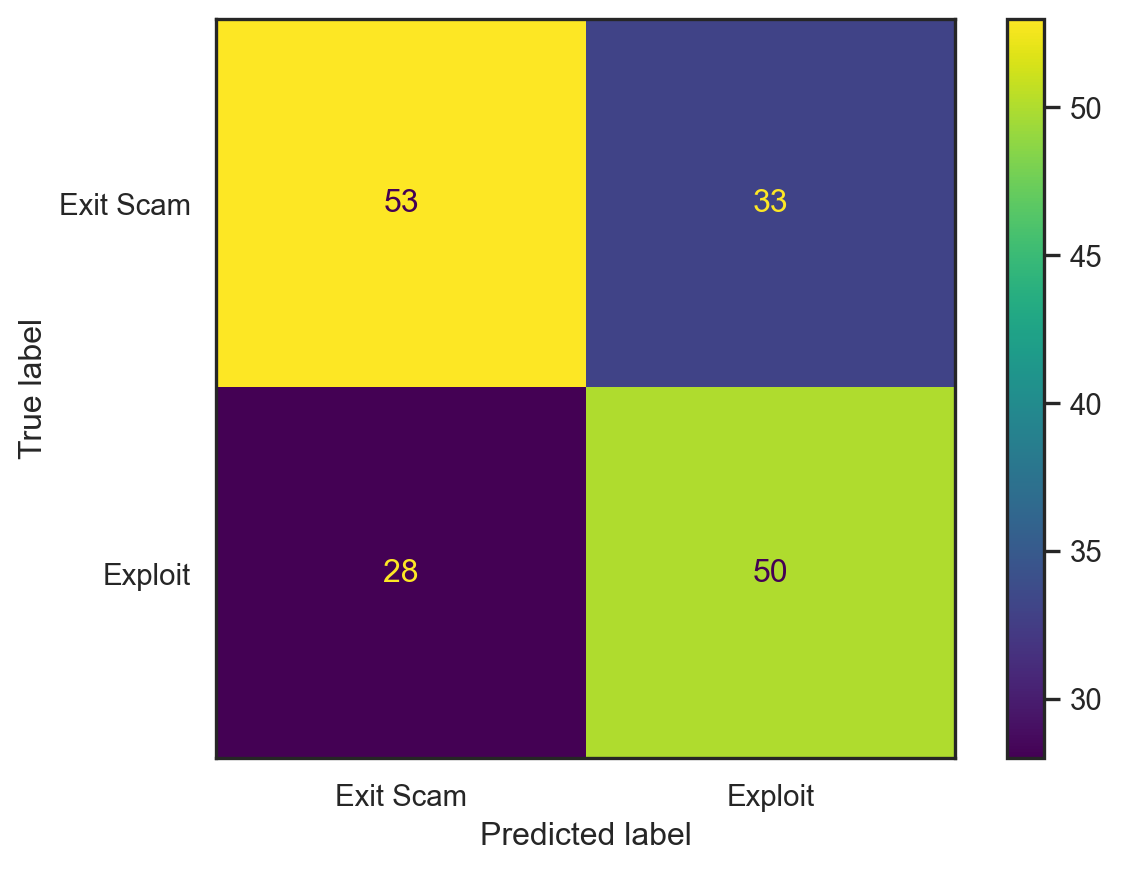
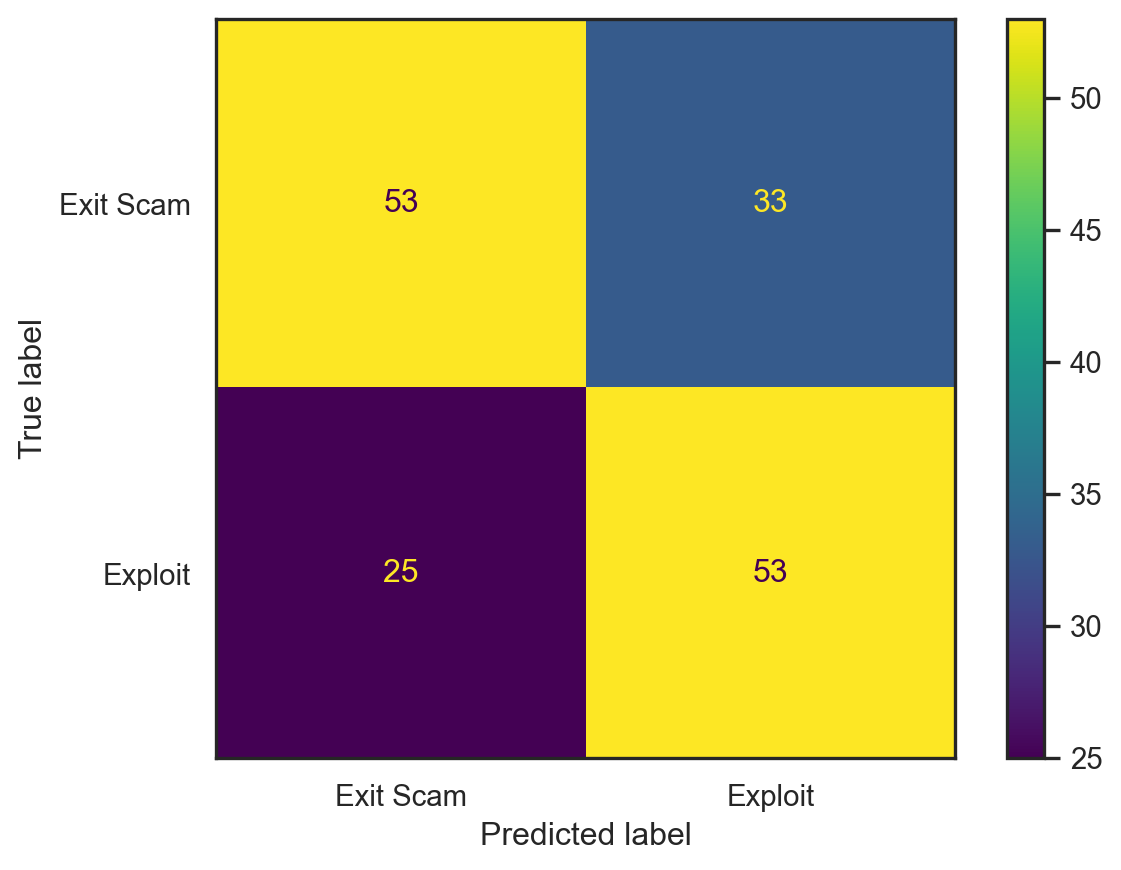
GITHUB-UPLOAD:DATE-2022-10-24-TIME-15-20-09

diff --git a/501-project-website/pages/decision_tree_record_data.html b/501-project-website/pages/decision_tree_record_data.html
@@ -115,13 +115,16 @@ code span.wa { color: #60a0b0; font-weight: bold; font-style: italic; } /* Warni
   <ul class="collapse">
   <li><a href="#methods" id="toc-methods" class="nav-link" data-scroll-target="#methods">Methods</a></li>
   <li><a href="#results" id="toc-results" class="nav-link" data-scroll-target="#results">Results</a></li>
-  <li><a href="#load-the-cleaned-text-data" id="toc-load-the-cleaned-text-data" class="nav-link" data-scroll-target="#load-the-cleaned-text-data">Load the cleaned text data</a></li>
+  <li><a href="#loading-libraries-and-the-cleaned-record-data-rekt-database" id="toc-loading-libraries-and-the-cleaned-record-data-rekt-database" class="nav-link" data-scroll-target="#loading-libraries-and-the-cleaned-record-data-rekt-database">Loading Libraries and the Cleaned Record Data (REKT Database)</a></li>
   <li><a href="#exploring-the-pre-processed-data-using-correlation-heat-maps-and-pairplots" id="toc-exploring-the-pre-processed-data-using-correlation-heat-maps-and-pairplots" class="nav-link" data-scroll-target="#exploring-the-pre-processed-data-using-correlation-heat-maps-and-pairplots">Exploring the Pre-processed Data using Correlation Heat Maps and Pairplots</a></li>
   <li><a href="#split-the-dataset-into-training-and-testing-sets" id="toc-split-the-dataset-into-training-and-testing-sets" class="nav-link" data-scroll-target="#split-the-dataset-into-training-and-testing-sets">Split the dataset into training and testing sets</a></li>
   <li><a href="#baseline-random-classifier" id="toc-baseline-random-classifier" class="nav-link" data-scroll-target="#baseline-random-classifier">Baseline Random Classifier</a></li>
   <li><a href="#binary-decision-tree-classifier" id="toc-binary-decision-tree-classifier" class="nav-link" data-scroll-target="#binary-decision-tree-classifier">Binary Decision Tree Classifier</a>
   <ul class="collapse">
+  <li><a href="#evaluating-initial-decision-tree-performance" id="toc-evaluating-initial-decision-tree-performance" class="nav-link" data-scroll-target="#evaluating-initial-decision-tree-performance">Evaluating Initial Decision Tree Performance</a></li>
+  <li><a href="#visualizing-the-decision-tree" id="toc-visualizing-the-decision-tree" class="nav-link" data-scroll-target="#visualizing-the-decision-tree">Visualizing the Decision Tree</a></li>
   <li><a href="#hyper-parameter-tuning-using-gridsearchcv-evaluating-best-decision-tree-classifier-for-test-data-performance" id="toc-hyper-parameter-tuning-using-gridsearchcv-evaluating-best-decision-tree-classifier-for-test-data-performance" class="nav-link" data-scroll-target="#hyper-parameter-tuning-using-gridsearchcv-evaluating-best-decision-tree-classifier-for-test-data-performance">Hyper-parameter tuning using GridSearchCV: Evaluating Best Decision Tree Classifier for Test Data Performance</a></li>
+  <li><a href="#visualizing-the-hyperparameter-tuned-decision-tree" id="toc-visualizing-the-hyperparameter-tuned-decision-tree" class="nav-link" data-scroll-target="#visualizing-the-hyperparameter-tuned-decision-tree">Visualizing the Hyperparameter Tuned Decision Tree</a></li>
   </ul></li>
   </ul></li>
   </ul>
@@ -143,8 +146,8 @@ code span.wa { color: #60a0b0; font-weight: bold; font-style: italic; } /* Warni
 <p>The cleaned REKT Database has 816 observations after pre-processing. If we recall, the original REKT Database had 3076 observations; however, to treat the heavy class imbalance present in the original data, about 1861 honeypots, 383 rugpulls, and 29 “other” scams were filtered out. Moreover, no key information, in terms of funds lost or source of the attack, was offered about these attacks in the observations that were eliminated. We are left with all those rows where funds lost != 0 and where all projects have some information to offer regarding the extent of the scam, helpful in predicting the scam type.</p>
 <p>Recalling from the Naive Bayes tab, the initial Naive Bayes Classifier that was tested on the same record data outputted an accuracy of 60% on the test data and the discretized Naive Bayes Classifier outputted an accuracy of 72%. Our expectation is that the Decision Tree should perform better than the Naive Bayes Classifiers because the Decision Tree is a more complex and stronger algorithm than Naive Bayes. Indeed, we are proved correct, as the initial Decision Tree outputted a 100% on all metrics on the training data and a 62% accuracy on the test data. This indicated major overfitting on the training data and, hence, hyperparameter tuning was employed for the Decision Tree to generalize better on unseen data. After performing hyperparameter tuning, the accuracy on the test data was significantly higher at 76%, which means that the Decision Tree did outperform the Naive Bayes Classifier trained on discretized data. Therefore, hyperparameter tuning is an important step in the machine learning process and it opens insights on why and how a particular model performs when its parameters are dialed back and forth.</p>
 </section>
-<section id="load-the-cleaned-text-data" class="level3">
-<h3 class="anchored" data-anchor-id="load-the-cleaned-text-data">Load the cleaned text data</h3>
+<section id="loading-libraries-and-the-cleaned-record-data-rekt-database" class="level3">
+<h3 class="anchored" data-anchor-id="loading-libraries-and-the-cleaned-record-data-rekt-database">Loading Libraries and the Cleaned Record Data (REKT Database)</h3>
 <div class="cell" data-execution_count="1">
 <details>
 <summary>Code</summary>
@@ -162,9 +165,6 @@ code span.wa { color: #60a0b0; font-weight: bold; font-style: italic; } /* Warni
 <span id="cb1-12"><a href="#cb1-12" aria-hidden="true" tabindex="-1"></a>warnings.filterwarnings(<span class="st">"ignore"</span>)</span></code><button title="Copy to Clipboard" class="code-copy-button"><i class="bi"></i></button></pre></div>
 </details>
 </div>
-<section id="import" class="level4">
-<h4 class="anchored" data-anchor-id="import">4.1.1: Import</h4>
-<p>The following code will import the data file into a pandas data-frame</p>
 <div class="cell" data-execution_count="2">
 <details>
 <summary>Code</summary>
@@ -178,7 +178,7 @@ code span.wa { color: #60a0b0; font-weight: bold; font-style: italic; } /* Warni
 <div class="sourceCode cell-code" id="cb3"><pre class="sourceCode python code-with-copy"><code class="sourceCode python"><span id="cb3-1"><a href="#cb3-1" aria-hidden="true" tabindex="-1"></a><span class="co"># Visualize first 5 rows</span></span>
 <span id="cb3-2"><a href="#cb3-2" aria-hidden="true" tabindex="-1"></a>df.head(<span class="dv">5</span>)</span></code><button title="Copy to Clipboard" class="code-copy-button"><i class="bi"></i></button></pre></div>
 </details>
-<div class="cell-output cell-output-display" data-execution_count="23">
+<div class="cell-output cell-output-display" data-execution_count="43">
 
 <div>
 
@@ -262,7 +262,6 @@ code span.wa { color: #60a0b0; font-weight: bold; font-style: italic; } /* Warni
 </div>
 </div>
 </section>
-</section>
 <section id="exploring-the-pre-processed-data-using-correlation-heat-maps-and-pairplots" class="level3">
 <h3 class="anchored" data-anchor-id="exploring-the-pre-processed-data-using-correlation-heat-maps-and-pairplots">Exploring the Pre-processed Data using Correlation Heat Maps and Pairplots</h3>
 <p>Scam type is the dependent variable, which contains 2 labels, Exit Scam (381 observations) and Exploit (435 observations). The independent variables are a mix of continuous, discrete, and text data. The independent continuous variables are log_funds_lost and log_funds_returned. The independent discrete variables are 3 datetime features, including month_of_attack, day_of_week_of_attack, and day_of_year_of_attack. The only string independent variable is scamNetworks, which denotes the token attached to the project that got scammed.</p>
@@ -294,8 +293,8 @@ code span.wa { color: #60a0b0; font-weight: bold; font-style: italic; } /* Warni
 <div class="sourceCode cell-code" id="cb8"><pre class="sourceCode python code-with-copy"><code class="sourceCode python"><span id="cb8-1"><a href="#cb8-1" aria-hidden="true" tabindex="-1"></a><span class="co"># GENERATING A SEABORN PAIRPLOT </span></span>
 <span id="cb8-2"><a href="#cb8-2" aria-hidden="true" tabindex="-1"></a>sns.pairplot(df,hue<span class="op">=</span><span class="st">"scam_type_grouped"</span>, diag_kind<span class="op">=</span><span class="st">'kde'</span>)</span></code><button title="Copy to Clipboard" class="code-copy-button"><i class="bi"></i></button></pre></div>
 </details>
-<div class="cell-output cell-output-display" data-execution_count="26">
-<pre><code>&lt;seaborn.axisgrid.PairGrid at 0x13ccb0fa0&gt;</code></pre>
+<div class="cell-output cell-output-display" data-execution_count="46">
+<pre><code>&lt;seaborn.axisgrid.PairGrid at 0x13863b130&gt;</code></pre>
 </div>
 <div class="cell-output cell-output-display">
 <p><img src="decision_tree_record_data_files/figure-html/cell-7-output-2.png" width="1343" height="1178"></p>
@@ -411,10 +410,10 @@ Unique labels and respective counts after one-hot encoding:
 
 
 -----RANDOM CLASSIFIER-----
-count of prediction: dict_values([421, 395])
-probability of prediction: [0.51593137 0.48406863]
-accuracy 0.5147058823529411
-precision, recall, fscore, support (array([0.48101266, 0.54631829]), array([0.49868766, 0.52873563]), array([0.48969072, 0.53738318]), array([381, 435]))</code></pre>
+count of prediction: dict_values([416, 400])
+probability of prediction: [0.50980392 0.49019608]
+accuracy 0.49142156862745096
+precision, recall, fscore, support (array([0.4575    , 0.52403846]), array([0.48031496, 0.50114943]), array([0.46862996, 0.51233843]), array([381, 435]))</code></pre>
 </div>
 </div>
 <p>The baseline classifier outputs an overall accuracy of 50% and an f-1 score of 0.0.47630923 for Exit Scam labels and 0.0.4939759 for Exploit labels respectively. The Decision Tree Classifier should perform better than this, let’s find out…</p>
@@ -438,8 +437,6 @@ precision, recall, fscore, support (array([0.48101266, 0.54631829]), array([0.49
 <span id="cb19-4"><a href="#cb19-4" aria-hidden="true" tabindex="-1"></a>model <span class="op">=</span> model.fit(x_train, y_train)</span></code><button title="Copy to Clipboard" class="code-copy-button"><i class="bi"></i></button></pre></div>
 </details>
 </div>
-<p>#### 4.1.5 Check the results</p>
-<p>Evaluate the performance of the decision tree model by using the test data.</p>
 <div class="cell" data-execution_count="15">
 <details>
 <summary>Code</summary>
@@ -469,6 +466,8 @@ precision, recall, fscore, support (array([0.48101266, 0.54631829]), array([0.49
 <span id="cb21-13"><a href="#cb21-13" aria-hidden="true" tabindex="-1"></a>    plt.show()</span></code><button title="Copy to Clipboard" class="code-copy-button"><i class="bi"></i></button></pre></div>
 </details>
 </div>
+<section id="evaluating-initial-decision-tree-performance" class="level3">
+<h3 class="anchored" data-anchor-id="evaluating-initial-decision-tree-performance">Evaluating Initial Decision Tree Performance</h3>
 <div class="cell" data-execution_count="17">
 <details>
 <summary>Code</summary>
@@ -493,20 +492,22 @@ POSITIVE PRECISION (Y=1): 1.0
 </div>
 <div class="cell-output cell-output-stdout">
 <pre><code>------TEST------
-ACCURACY: 0.6280487804878049
+ACCURACY: 0.6463414634146342
 NEGATIVE RECALL (Y=0): 0.6162790697674418
-NEGATIVE PRECISION (Y=0): 0.654320987654321
-POSITIVE RECALL (Y=1): 0.6410256410256411
-POSITIVE PRECISION (Y=1): 0.6024096385542169
+NEGATIVE PRECISION (Y=0): 0.6794871794871795
+POSITIVE RECALL (Y=1): 0.6794871794871795
+POSITIVE PRECISION (Y=1): 0.6162790697674418
 [[53 33]
- [28 50]]</code></pre>
+ [25 53]]</code></pre>
 </div>
 <div class="cell-output cell-output-display">
 <p><img src="decision_tree_record_data_files/figure-html/cell-18-output-4.png" width="561" height="435"></p>
 </div>
 </div>
 <p>The initial Decision Tree outputted a 100% on all metrics on the training data and a 62% accuracy on the test data. This is a case of major overfitting on the training data! The Decision Tree below outputs a highly complex tree of several child nodes to learn the training data as best as possible. However, this led to it not generalizing well on unseen data, which is why we see a significantly lower accuracy of 62% on the test set. Therefore, we shall employ hyperparameter tuning for the Decision Tree to generalize better on unseen data.</p>
-<p>### Visualizing the Decision Tree</p>
+</section>
+<section id="visualizing-the-decision-tree" class="level3">
+<h3 class="anchored" data-anchor-id="visualizing-the-decision-tree">Visualizing the Decision Tree</h3>
 <div class="cell" data-execution_count="18">
 <details>
 <summary>Code</summary>
@@ -524,6 +525,7 @@ POSITIVE PRECISION (Y=1): 0.6024096385542169
 <p><img src="decision_tree_record_data_files/figure-html/cell-19-output-1.png" width="1507" height="1498"></p>
 </div>
 </div>
+</section>
 <section id="hyper-parameter-tuning-using-gridsearchcv-evaluating-best-decision-tree-classifier-for-test-data-performance" class="level3">
 <h3 class="anchored" data-anchor-id="hyper-parameter-tuning-using-gridsearchcv-evaluating-best-decision-tree-classifier-for-test-data-performance">Hyper-parameter tuning using GridSearchCV: Evaluating Best Decision Tree Classifier for Test Data Performance</h3>
 <p>The “max_depth” hyper-parameter lets us control the number of layers in our tree. The leaf nodes of the Decision Tree don’t split the data any further. Therefore, “min_samples_leaf” hyper-parameter lets us control the classification for examples that end up in that node. We shall iterate over “max_depth” and “min_samples_leaf” as well as change the criterions, including gini and entropy, of judging the best splits to try to find the set of hyper-parameters with the lowest training AND test error.</p>
@@ -569,7 +571,9 @@ weighted avg       0.78      0.77      0.77       164
 </code></pre>
 </div>
 </div>
-<p>### Visualizing the Hyperparameter Tuned Decision Tree</p>
+</section>
+<section id="visualizing-the-hyperparameter-tuned-decision-tree" class="level3">
+<h3 class="anchored" data-anchor-id="visualizing-the-hyperparameter-tuned-decision-tree">Visualizing the Hyperparameter Tuned Decision Tree</h3>
 <div class="cell" data-execution_count="20">
 <details>
 <summary>Code</summary>
